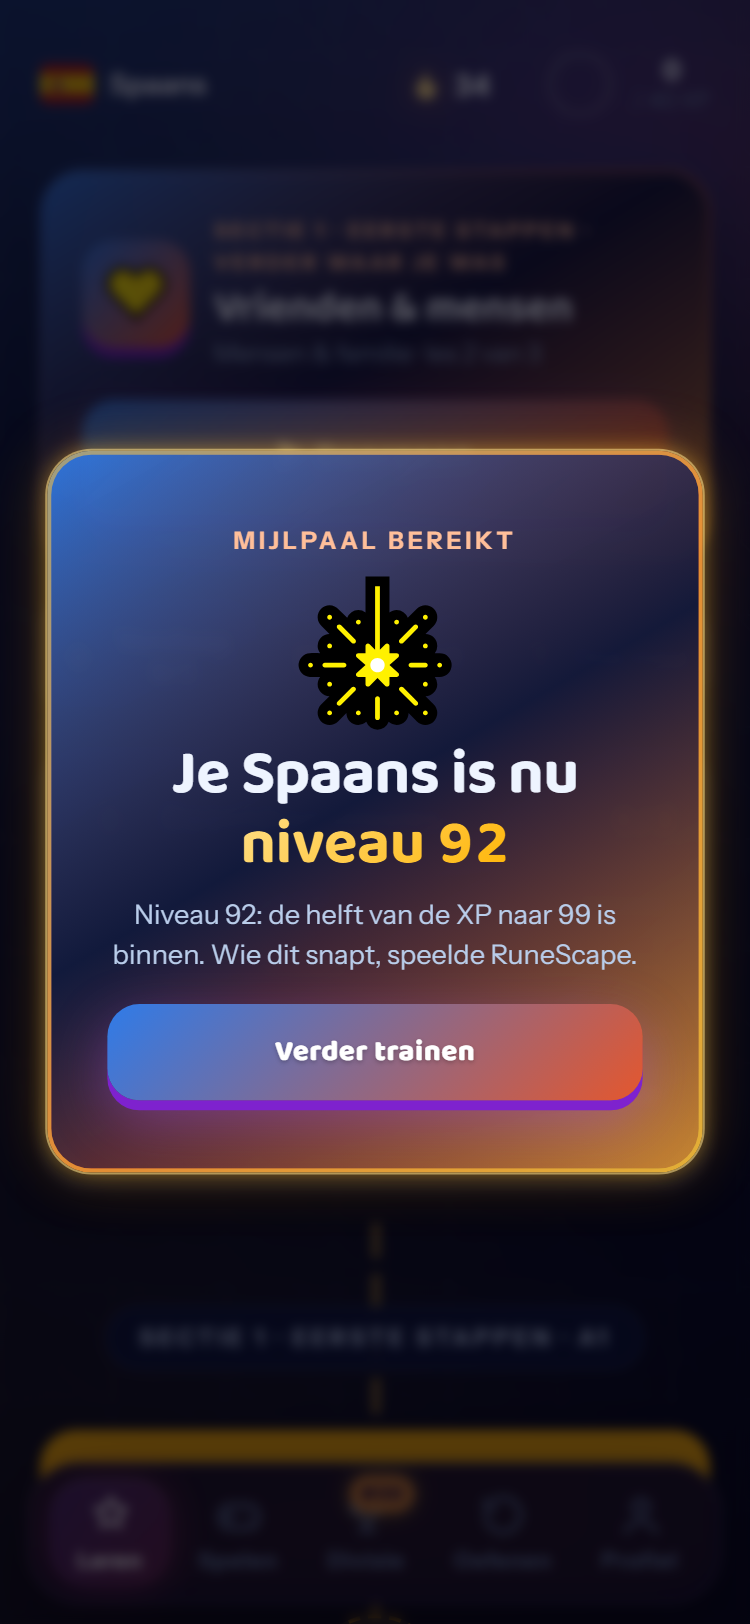
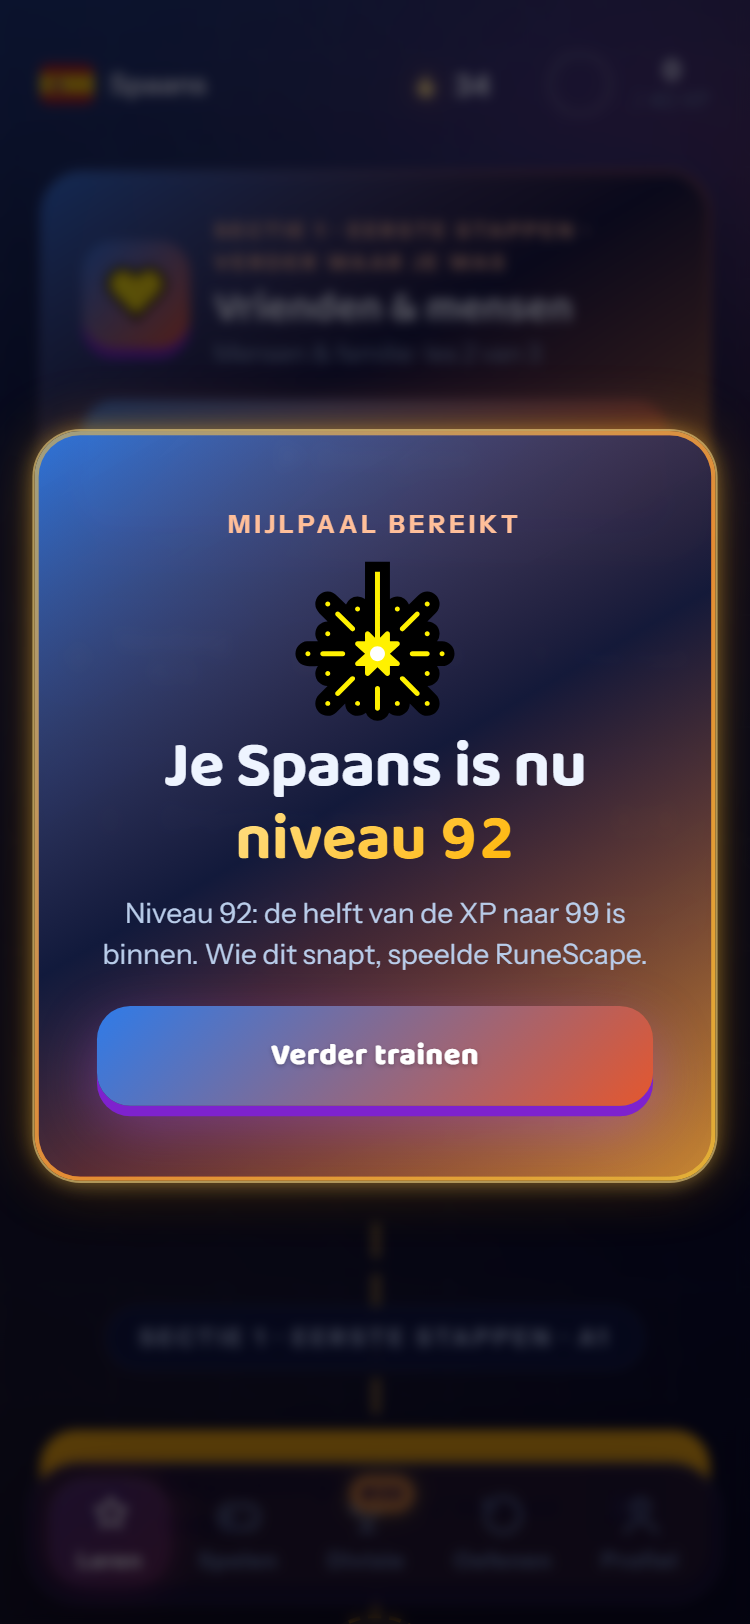
Masterprompt ronde 68: de momenten zijn gemeten, niet aangenomen

Changed region(s): [[0.0307, 0.2463, 0.9813, 0.7389], [0.1227, 0.6158, 0.1533, 0.6773]]

diff --git a/MASTERPROMPT.md b/MASTERPROMPT.md
@@ -434,6 +434,20 @@ Stoppen kan met `/loop stop` of door de cron-taak te verwijderen.
 
 ## Logboek
 
+- **14-08-2026, ronde 68** - **De drie pijlers staan nu niet meer op papier maar in een meting, en dat legde twee echte gebreken in pijler 1 bloot.**
+
+  **Gebrek 1: een mijlpaal was kleiner dan een gewoon niveau.** De mijlpaalkaart had meer padding, een groter cijfer en een grotere kop, en was tóch twaalf pixels kleiner, omdat de gewone kaart toevallig meer regels tekst droeg. Zo'n verschil zie je met het oog niet en met een liniaal meteen. Nu 252 tegen 229, met een gouden rand en gloed erbij.
+
+  **Gebrek 2: de meestermantel hing niet overal.** Wel op je profiel en in de arena, niet op het leerscherm, terwijl punt 1c "overal zichtbaar" zegt. Opgelost, en er is nu `?meester=1` om het te kunnen zien: zonder zo'n link is 99 alleen te bereiken door zestigduizend XP te verdienen en dus in de praktijk niet te controleren.
+
+  **`scripts/momenten-proef.mjs`** meet nu de momenten in plaats van de rustige schermen: elk van de zes mijlpalen, het formaatverschil, de regel bij 92, dezelfde mijlpaal in álle zestien werelden, en de mantel op drie schermen. Zestien controles, ook groen tegen de live link.
+
+  **LES: innerText is de gerénderde tekst.** Een kop met `text-transform: uppercase` komt er in hoofdletters uit, dus een zoekopdracht op kleine letters vindt niets en meldt "stuk" over iets dat perfect werkt. Datzelfde script gaf ook 7205 pixels hoogte terug omdat het de eerste div pakte die de kaart bevat, en dat is een voorouder van het hele scherm. **Regel: zoek hoofdletterongevoelig, en pak bij een maat altijd het kleinste element dat past, nooit het eerste.**
+
+  **De audit is minder breekbaar:** hij weigerde botweg als een pagina de wereld nog niet had gezet. Nu probeert hij het driemaal met oplopend geduld en gaat pas stuk als het echt stuk is. De strengheid blijft, de ruis verdwijnt.
+
+  **Stand van het doel:** pijler 1 volledig gemeten (XP-drop, zes mijlpalen, formaat, mantel overal), pijler 2 volledig op online matchmaking na (breuken, gedrag, schaduwduels), pijler 3 op 96 van 96 combinaties schoon inclusief de niveaumomenten per wereld, punt 4 op vier groepen met vijftien richtingen, punt 5 gemeten en gehandhaafd, punt 6 elke ronde live met bewijs.
+
 - **14-08-2026, ronde 67** - **Pijler 1 nagemeten, en de animatiegrens uit punt 5 stond alleen op papier.**
 
   **Pijler 1 is niet aangenomen maar gemeten.** `scripts/les-proef.mjs` speelt een echte les en kijkt naar het scherm: de XP-drop valt na een goed antwoord, het niveaumoment komt met de mijlpaal erbij, en het profiel toont het raster met 99 per taal, het totaalniveau en de arenarang. Zes controles groen. Het bewijsbeeld liet en passant zien dat de woordenstamboom klopt: één Spaans woord tilde het Italiaans in dezelfde les een niveau omhoog.
